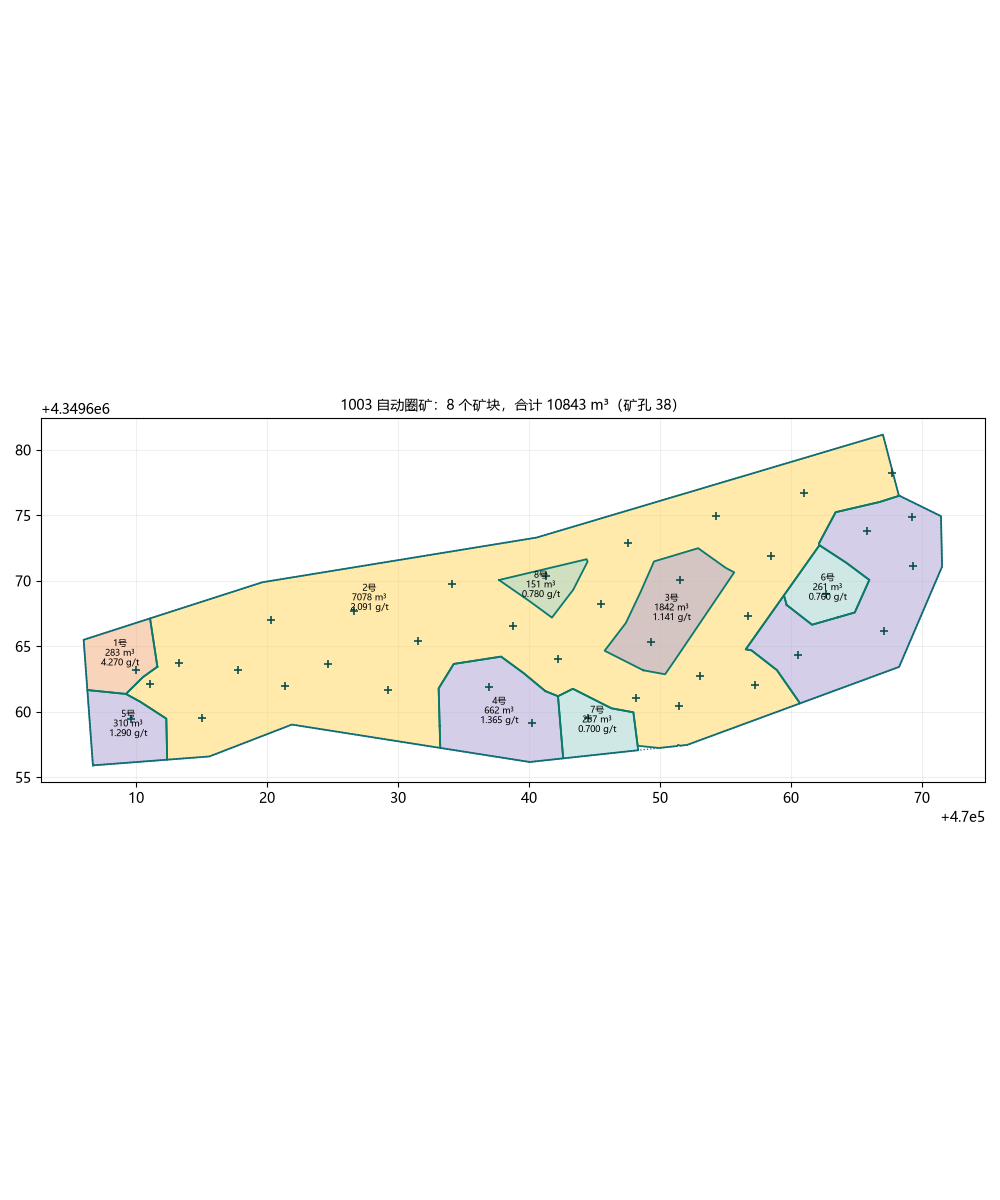
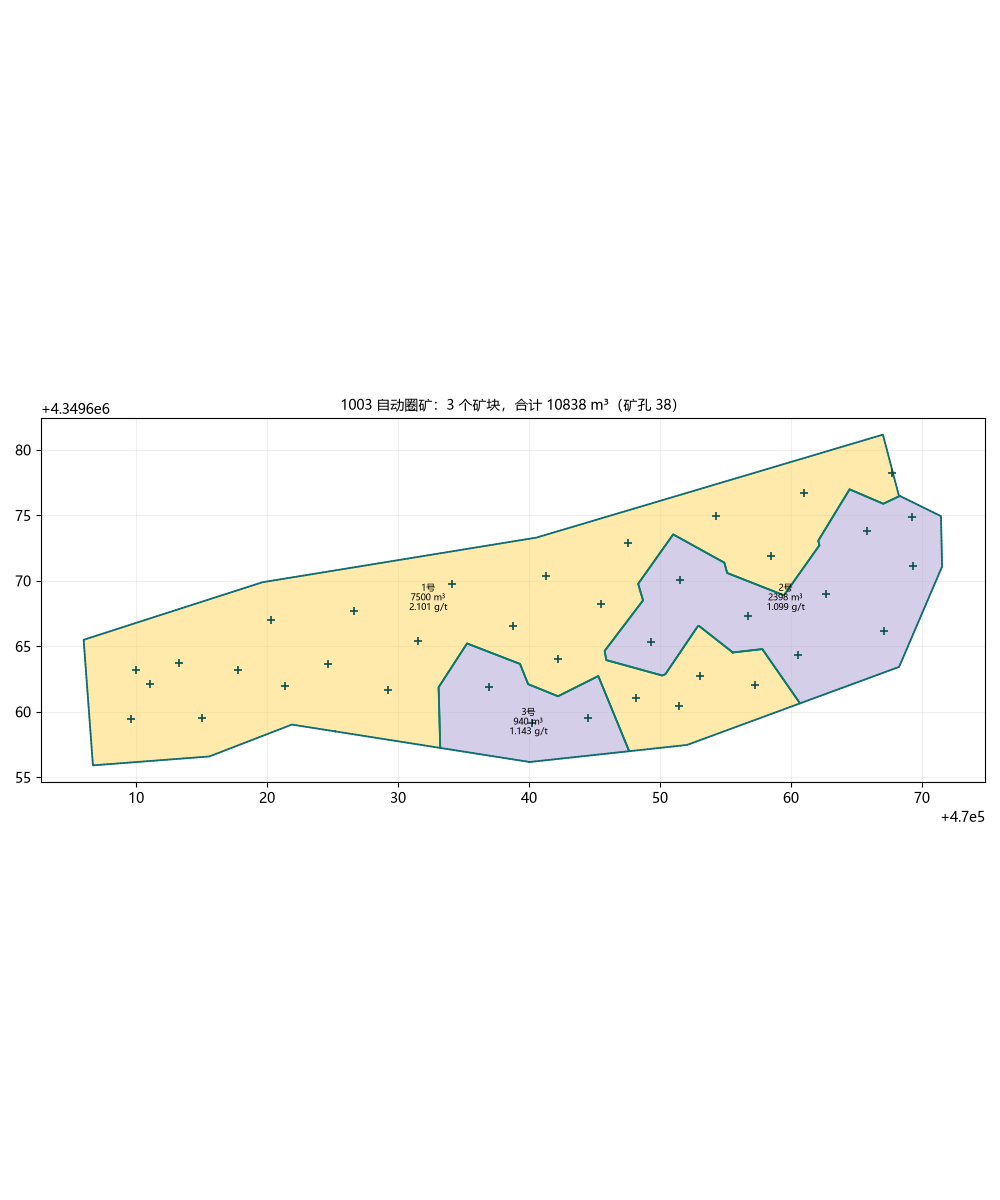
core: 南端接综合图改走短弧 + 矿界自检与修补（1004 矿界 IoU 0.58→0.77，体积差 -30.7%→-5.6%）

diff --git a/3DMine二次圈矿工具_初步原型/core/strip.py b/3DMine二次圈矿工具_初步原型/core/strip.py
@@ -24,6 +24,13 @@ from scipy.spatial import Voronoi
 EXTRUDE_M = 3.0        # 外侧外推距离
 SIMPLIFY_M = 0.8       # 矿界抽稀容差(m)：让边界尽量是直线段，拐点不要过多
 SOUTH_MERGE_GAP = 8.0  # 南端与综合图历史块"能并在一起"的最大间距(m)
+# 南端可并的历史矿块图层白名单。设为 None = 不限图层。
+#
+# 曾经试过"只并品位图层"（想避开综合图里图层 0 的整片采场轮廓，1004 那张 725 m² 的
+# 把整个矿化带都包住了），但配合"走短弧"之后实测**不限图层更好**：
+#   1008 IoU 0.93 / 0915 0.91 / 1003 0.85 / 1004 0.77（限图层时 1004 只有 -4% 但 0915 掉到 0.87）
+# 真正解决 1004 的是"短弧 + 自检修补"，不是图层过滤。
+COMPOSITE_BLOCK_LAYERS = None
 # 同档碎片小于这个面积就并入相邻块。用 5 张人工图（0915/0922/1003/1004/1008）标定：
 # 40 m² + "并入平均品位最接近的邻块" 时，与人工图的分块一致率最高（0.936）。
 MIN_FRAGMENT_M2 = 40.0
@@ -177,8 +184,13 @@ def _end_mids(end_hole, waste, ref_dir, radius=END_SEARCH_R):
     return mids
 
 
-def _arc_through_north(poly: Polygon, a, b):
-    """沿多边形外环取一条从 a 到 b、经过最北顶点的弧（返回含端点的坐标表）。"""
+def _arc_through_north(poly: Polygon, a, b, prefer: str = "short"):
+    """沿多边形外环取一条从 a 到 b 的弧（返回含端点的坐标表）。
+
+    prefer="short" ：取更短的那条（1004 那种"大轮廓把整条矿化带包住"的情况，
+                     按最北顶点选弧会绕地球一圈，必须按长度选）；
+    prefer="north" ：取经过最北顶点的那条（1008 的历史行为）。
+    """
     coords = list(poly.exterior.coords)[:-1]
     for p in (a, b):
         best = None
@@ -200,7 +212,14 @@ def _arc_through_north(poly: Polygon, a, b):
     if ia > ib:
         arc1 = list(reversed(arc1))
         arc2 = list(reversed(arc2))
-    pick = arc1 if max(p[1] for p in arc1) >= max(p[1] for p in arc2) else arc2
+    if prefer == "short":
+        len1 = sum(math.hypot(arc1[k + 1][0] - arc1[k][0], arc1[k + 1][1] - arc1[k][1])
+                   for k in range(len(arc1) - 1))
+        len2 = sum(math.hypot(arc2[k + 1][0] - arc2[k][0], arc2[k + 1][1] - arc2[k][1])
+                   for k in range(len(arc2) - 1))
+        pick = arc1 if len1 <= len2 else arc2
+    else:
+        pick = arc1 if max(p[1] for p in arc1) >= max(p[1] for p in arc2) else arc2
     return [tuple(p) for p in pick]
 
 
@@ -214,7 +233,10 @@ def south_closure(le, re, comp_blocks, gap: float = SOUTH_MERGE_GAP):
     """
     best, bestd = None, 1e18
     for item in (comp_blocks or []):
-        poly = item[2]
+        layer, poly = item[0], item[2]
+        if COMPOSITE_BLOCK_LAYERS is not None and layer not in COMPOSITE_BLOCK_LAYERS:
+            # 图层 0 的整片采场轮廓不是历史矿块（并进来会把环拆散）
+            continue
         if poly is None or poly.is_empty:
             continue
         d = min(Point(le).distance(poly), Point(re).distance(poly))
@@ -316,6 +338,34 @@ def zone_outline(ore, all_holes, extrude: float = EXTRUDE_M,
         sp = poly.simplify(SIMPLIFY_M, preserve_topology=True)
         if not sp.is_empty and sp.area > 0.5 * poly.area:
             poly = sp
+    # ---- 自检与修补：矿界必须是**整块**、且把所有矿孔包在里面 ----
+    warn = []
+    if poly.geom_type == "MultiPolygon":
+        warn.append("矿界原本碎成 %d 片" % len(poly.geoms))
+        poly = unary_union(list(poly.geoms))
+    out = [h for h in ore if not poly.contains(Point(h.x, h.y))]
+    if out:
+        warn.append("%d 个矿孔原本落在矿界外（%s）"
+                    % (len(out), "、".join(h.short for h in out[:6])))
+        # 用"廊道"把外面的孔接回主环：从主环上最近的点拉一条 extrude 粗的带
+        for h in out:
+            pt = Point(h.x, h.y)
+            near = nearest_points(poly.exterior, pt)[0]
+            # 端点再往外伸 0.8 m：不然孔正好落在廊道端面上，contains 判不进
+            d = np.array([h.x - near.x, h.y - near.y], float)
+            n = np.linalg.norm(d)
+            d = d / n if n > 1e-9 else np.array([1.0, 0.0])
+            tip = (h.x + d[0] * 0.8, h.y + d[1] * 0.8)
+            poly = unary_union([poly, LineString([near, tip]).buffer(
+                extrude + 0.2, join_style="mitre", cap_style="flat")])
+            poly = poly.buffer(0.1, join_style="mitre").buffer(
+                -0.1, join_style="mitre")
+        left = [h.short for h in ore if not poly.contains(Point(h.x, h.y))]
+        if left:
+            warn.append("仍在外：%s" % "、".join(left))
+    if poly.geom_type != "Polygon":
+        poly = max(poly.geoms, key=lambda g: g.area)
+    LAST_RING["warn"] = warn
     return poly
 
 

diff --git a/3DMine二次圈矿工具_初步原型/core/run_strip.py b/3DMine二次圈矿工具_初步原型/core/run_strip.py
@@ -99,10 +99,12 @@ def main() -> None:
 
     outline = zone_outline(ore, allh, 3.0, comp_blocks=comp, blast=date)
     print("外围矿界面积 = %.3f m2" % (outline.area if outline else 0))
+    from strip import LAST_RING
+    for w in (LAST_RING.get("warn") or []):
+        print("   [矿界自检] %s（已自动修补成单块并把矿孔包进来，建议目视复核）" % w)
     # 分块定档（人工口径）：同档连通块 → <40 m² 的碎片并入邻块 → 按块平均品位定档
     blocks = average_blocks(ore, outline, DENSITY)
     # 只并"矿界南端真正接上的那一块"历史矿块（避免把综合图的大轮廓一起吞进来）
-    from strip import LAST_RING
     mb = LAST_RING.get("merged_block")
     cands = [c for c in comp if mb is not None and c[2] is mb] or None
     for b in blocks:

diff --git a/Excel对比工具/dragdrop.py b/Excel对比工具/dragdrop.py
@@ -8,6 +8,7 @@
 from __future__ import annotations
 
 import ctypes
+import ctypes.wintypes  # 必须显式导入子模块, 否则 ctypes.wintypes 不一定被绑定
 import os
 import sys
 

diff --git a/3DMine二次圈矿工具_初步原型/口径确认记录.md b/3DMine二次圈矿工具_初步原型/口径确认记录.md
@@ -32,12 +32,20 @@
    用户图里多出来的那个拐点 (470105.83, 4349752.97) **不补**（2026-10-10 确认：保留现状）。
 6. **南端接综合图**：取离左右下端点最近、间距 ≤8 m 的综合图历史矿块，落到该块边界上**离左边界下端最近的点**，再沿"经过最北顶点"的那条弧走到右边界下端。
    （2026-10-10 确认：就按最近点，不用"沿左边界方向延伸求交"，也不用人工的 A 点。）
+   **2026-10-12 修正**：那条弧改成**走短弧**。原来按"经过最北顶点"选，遇到 1004 那种
+   "综合图的大轮廓把整条矿化带包住"的情况会绕一大圈，把环拆成好几片、10 个矿孔被甩到环外
+   （IoU 只有 0.58）。改走短弧后 1004 的矿界 IoU 0.58 → 0.77、体积差 −30.7% → −5.6%。
 7. **合并范围**：只并**矿界真正接上的那一块**历史矿块；离得远的大轮廓（1008 里那块 725 m²、图层 `0`）**不并**（2026-10-10 确认）。
+   **2026-10-12 补充**：合并候选**不限图层**（试过只并品位图层，实测更差：0915 IoU 掉到 0.87）。
 8. **空白区**：圈不闭的区域在图上单独图层画出来 + 备注"（缺工程，待取样验证后再进行施工）"；**报告里不列**。
 9. **孤立单孔**：周围都没到入选品位的单个有品位炮孔**不单独圈矿**，列入待取样区。
    **连接半径 = 15 m**（2026-10-10 确认"尽量在 15 米以内才圈"）：矿孔之间相距 ≤15 m 才算
    连在同一条矿化带上；超过 15 m 的独立成组、列待取样。
    依据：1004 人工图把北边间隔 10.6~13.9 m 的孔都连成一条；1008 的 P43 离主带 21.4 m 没圈。
+10. **矿界自检（2026-10-12 加）**：矿界生成后强制检查——必须是整块、且把所有矿孔包在里面；
+    不满足就自动修补（碎块合成一块 + 用 3 m 宽廊道把外面的孔接回主环），并在日志里打印
+    `[矿界自检] …（已自动修补，建议目视复核）`。0915、1004 现在会触发这条（各有 4~5 个孔
+    原本落在链式外推的环外）。
 
 ## C. 品位界限
 

diff --git a/.workbuddy/memory/2026-10-11.md b/.workbuddy/memory/2026-10-11.md
@@ -1,0 +1,21 @@
+# 2026-10-11 工作日志
+
+## Excel对比工具 .bat 启动问题：最终根治方案
+
+反复失败（PATH 选不到 Python / pythonw 真崩 / 中文乱码 / start 空标题 / echo 括号陷阱 /
+%LOCALAPPDATA% 在 Explorer 双击上下文解析异常 → "系统找不到指定的路径" + "不是内部或外部命令"）。
+
+**最终方案（已验证）**：彻底删除所有探测逻辑，直接用字面已知路径启动。
+- 本机唯一可用 Python：`C:\Users\Administrator\AppData\Local\Programs\Python\Python313\`
+  （pythonw.exe / python.exe 均带 tkinter + openpyxl 3.1.5）。
+- `启动对比工具.bat`：`cd /d "%~dp0"` → `set "PY=<字面路径>\pythonw.exe"` →
+  `if not exist "%PY%" goto :notfound` → `start "ExcelDiff" "%PY%" -X utf8 "%~dp0gui.py"`。
+- `启动对比工具_调试.bat`：同上但用 python.exe（有控制台，崩溃可见）+ `pause`。
+- 关键：不再依赖 `%LOCALAPPDATA%`、`PATH` 的 `for` 循环、括号 `echo`、空标题 `start`。
+
+**验证**：文件纯 ASCII（调试版 0 非 ASCII）、无 BOM；`cmd /c` 解析测试 rc=0 且正确解析到
+pythonw 路径与 gui.py；6 个 Python 模块（reader/compare/writer/dragdrop/app_icon/gui）
+在系统 Python 下全部导入成功（gui 启动不会崩）。
+
+**结论**：agent 沙箱 shell 与用户 Explorer 双击的 cmd 环境不同（变量/PATH 解析差异），
+所以"agent 里测通过、用户双击失败"反复发生。根治 = 字面路径 + 零探测。
